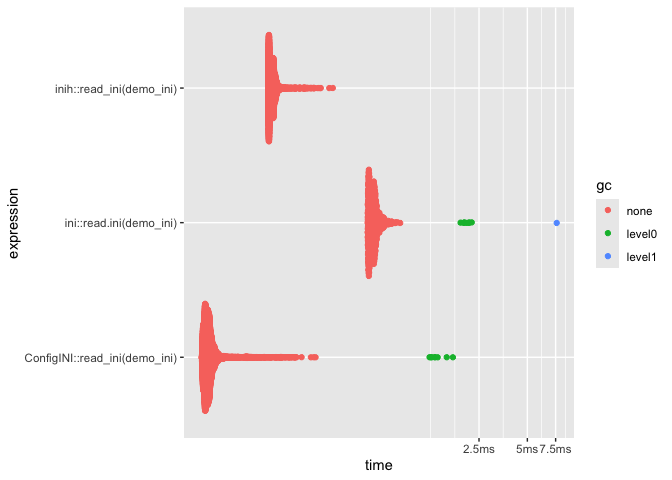
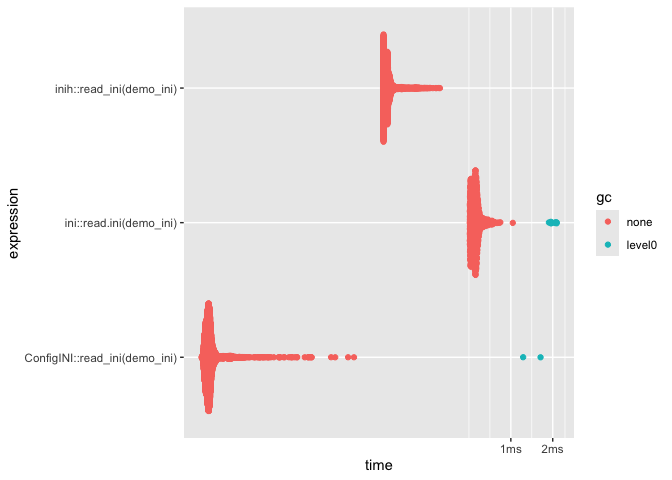
update file cache when file has been modified

diff --git a/README.md b/README.md
@@ -186,12 +186,22 @@ demo_ini <- system.file("demo.ini", package = "ConfigINI")
 #> # A tibble: 3 × 6
 #>   expression                         min   median `itr/sec` mem_alloc `gc/sec`
 #>   <bch:expr>                    <bch:tm> <bch:tm>     <dbl> <bch:byt>    <dbl>
-#> 1 ConfigINI::read_ini(demo_ini)   46.7µs   51.1µs    18769.        0B     16.4
-#> 2 inih::read_ini(demo_ini)       121.6µs  127.5µs     7648.    14.3KB      0  
-#> 3 ini::read.ini(demo_ini)        505.8µs  547.3µs     1808.    4.22KB     16.7
+#> 1 ConfigINI::read_ini(demo_ini)    5.9µs   6.44µs   150570.        0B     30.1
+#> 2 inih::read_ini(demo_ini)       125.5µs 130.22µs     7625.    14.3KB      0  
+#> 3 ini::read.ini(demo_ini)        507.1µs 522.18µs     1901.    4.22KB     18.6
 
-ggplot2::autoplot(bm)
-#> Loading required namespace: tidyr
+# Relative to the fastest time
+summary_cols <- c("min", "median", "itr/sec", "mem_alloc", "gc/sec")
+bm[summary_cols] <- lapply(bm[summary_cols], function(x) as.numeric(x / min(x)))
+bm
+#> # A tibble: 3 × 6
+#>   expression                      min median `itr/sec` mem_alloc `gc/sec`
+#>   <bch:expr>                    <dbl>  <dbl>     <dbl>     <dbl>    <dbl>
+#> 1 ConfigINI::read_ini(demo_ini)   1      1       79.2        NaN      Inf
+#> 2 inih::read_ini(demo_ini)       21.3   20.2      4.01       Inf      NaN
+#> 3 ini::read.ini(demo_ini)        85.9   81.1      1          Inf      Inf
 ```
 
-<img src="man/figures/README-benchmark-1.png" width="100%" />
+    #> Loading required namespace: tidyr
+
+<img src="man/figures/README-benchmark_graph-1.png" width="100%" />
